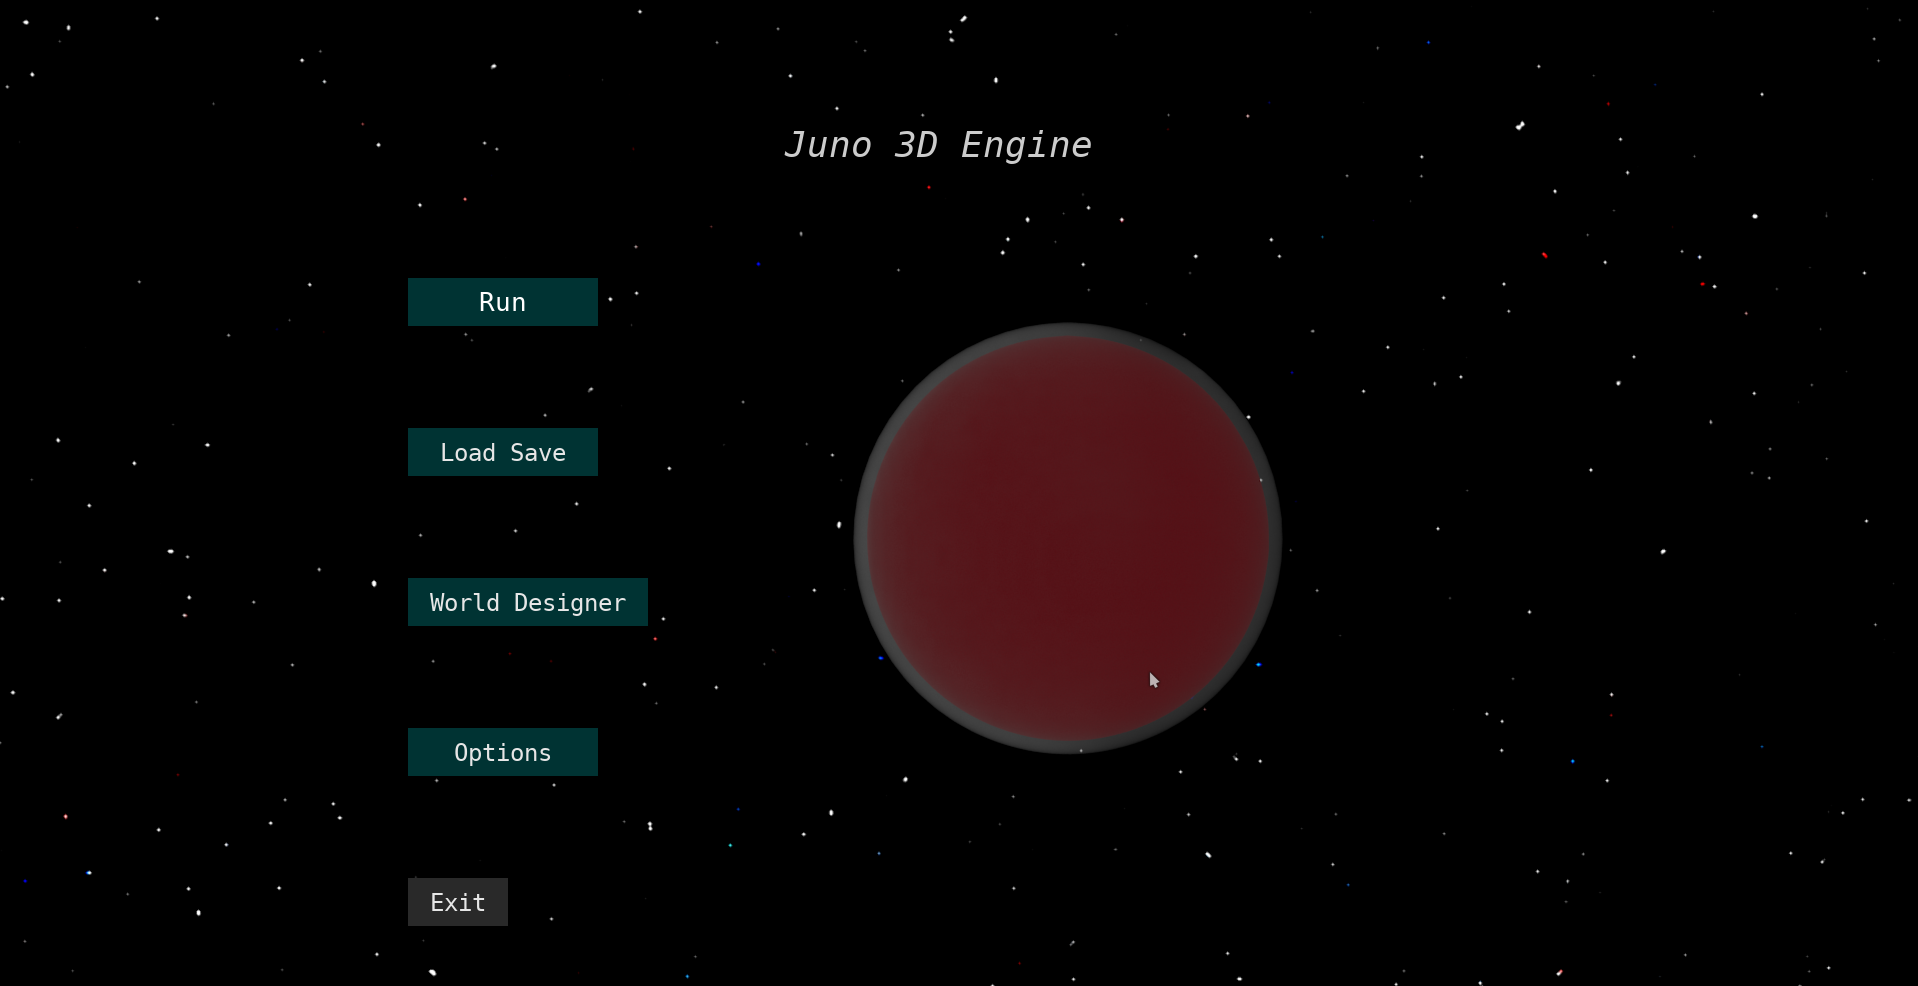
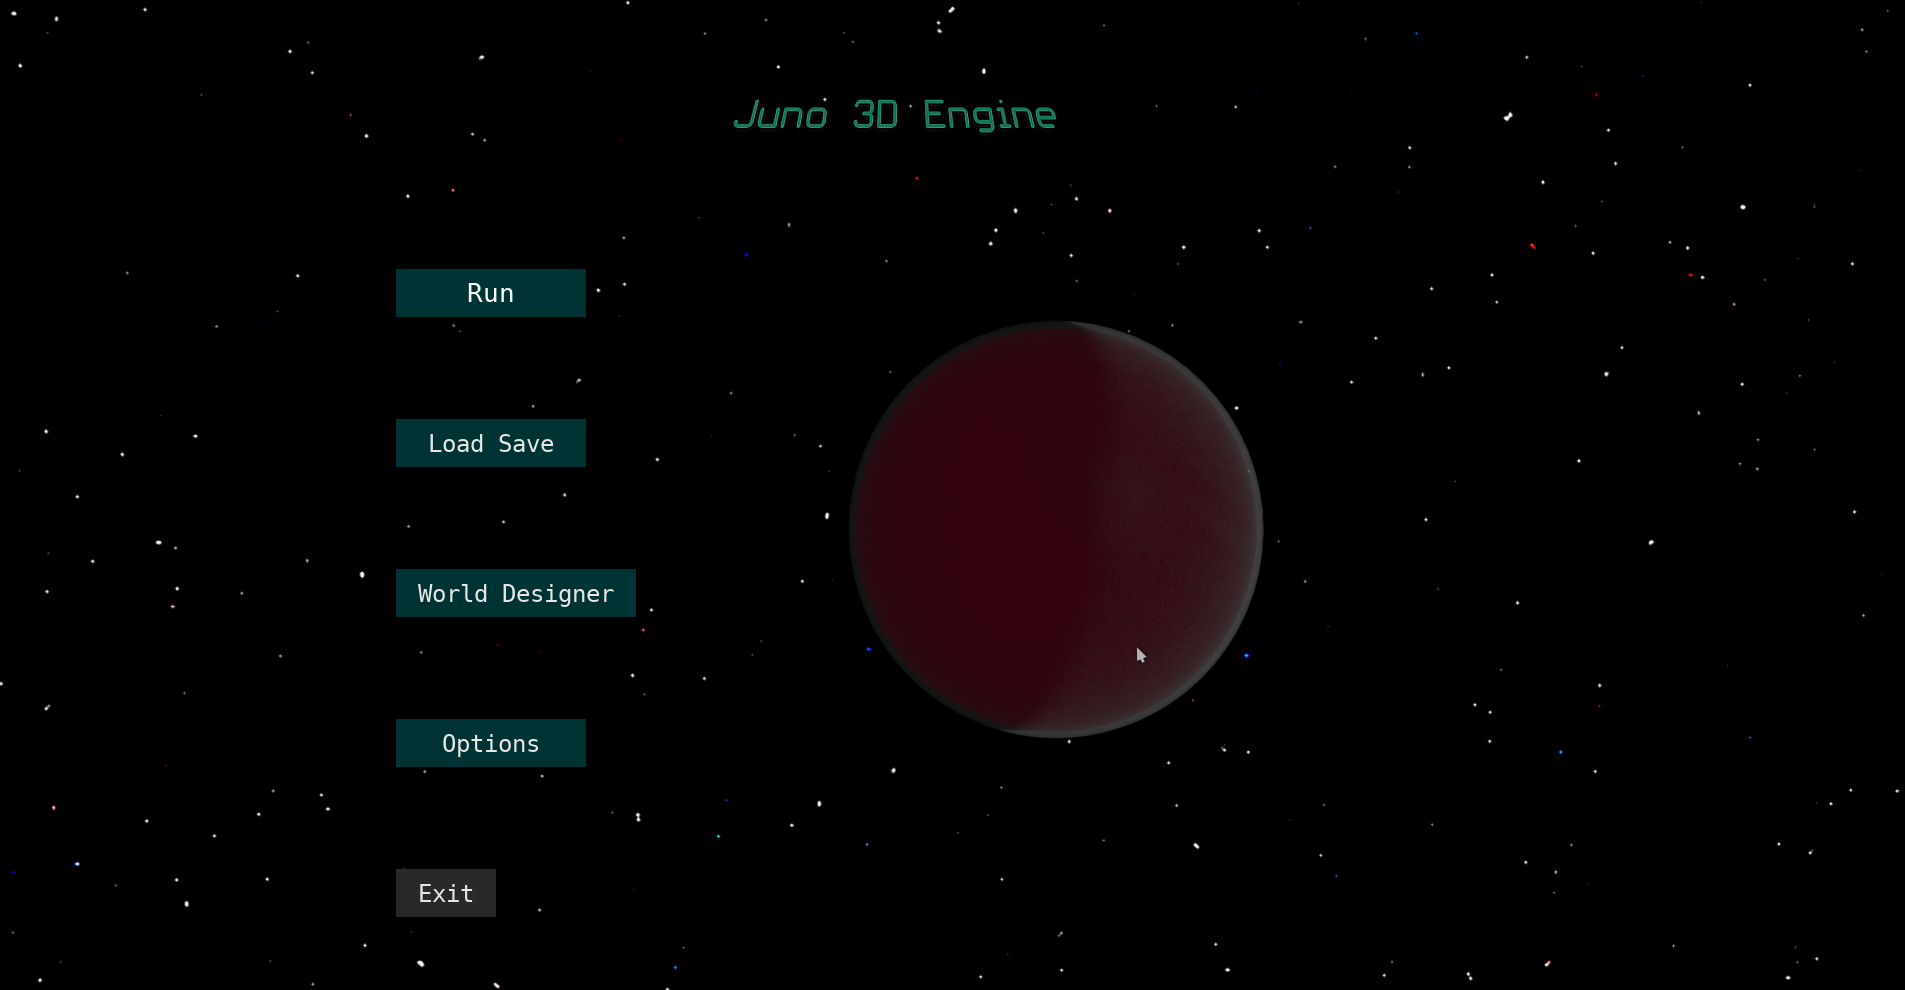
v0.1.5

diff --git a/GameEngine/src/juno/core/Launcher.java b/GameEngine/src/juno/core/Launcher.java
@@ -85,13 +85,6 @@ public class Launcher extends JFrame {
 	    setResizable(false);
 	    setUndecorated(false);
 	  
-	    JLabel title = new JLabel("Juno Game Engine");
-	    title.setFont(new Font("Courier", Font.ITALIC, 36));					
-	    title.setBounds(WIDTH/6, 115, 602, 44);
-	    title.setForeground(new Color(.8f,.8f,.8f));
-	    title.setHorizontalAlignment(SwingConstants.CENTER);
-	    title.setVerticalAlignment(SwingConstants.TOP);
-	    frame.getContentPane().add(title);
 	    
 	    JButton run = new JButton("Run");
 	    run.setFont(new Font("Monospaced", Font.PLAIN, 26));
@@ -222,6 +215,10 @@ public class Launcher extends JFrame {
 	    version.setBounds(WIDTH - 200, HEIGHT-75,130,35);
 	    frame.getContentPane().add(version);
 	     
+	    JLabel title = new JLabel("");
+	    title.setIcon(new ImageIcon("res/logoGE.png"));
+	    title.setBounds(WIDTH/3 + 100, 80, 1000, 100);
+	    frame.getContentPane().add(title);
 	       
 	    /* background for menu */
 	    JLabel lblNewLabel_1 = new JLabel("");

diff --git a/Juno3DEngine-master/src/juno/core/Launcher.java b/Juno3DEngine-master/src/juno/core/Launcher.java
@@ -196,7 +196,7 @@ public class Launcher extends JFrame {
 		    
 	    	public void mouseEntered(MouseEvent e) {
 	    		exit.setBounds(410 + hoverXOffset, HEIGHT - 200 + hoverYOffset, 100, 48);
-	    		exit.setBackground(new Color(0.73f, 0.1f, 0.1f));
+	    		exit.setBackground(new Color(0.33f, 0.1f, 0.1f));
 	    	}
 		    	   
 	    	public void mouseExited(MouseEvent e) {
